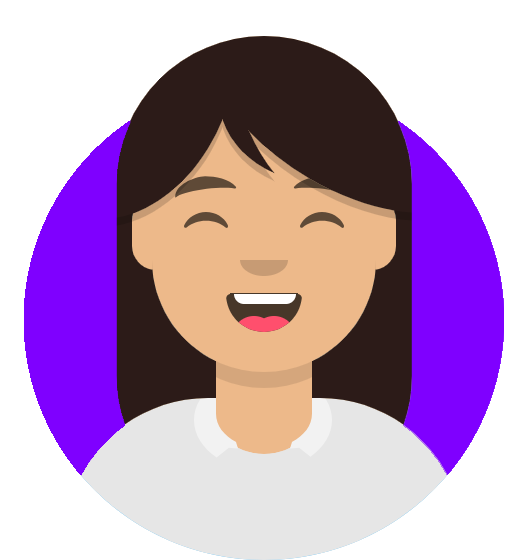
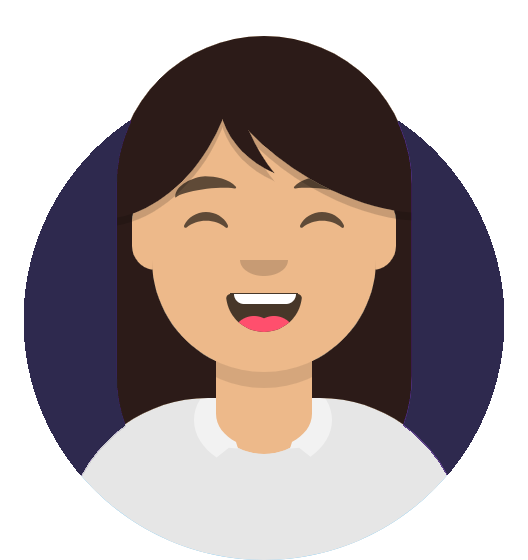
show resume button

Changed region(s): [[0.7576, 0.2125, 0.9697, 0.85], [0.0303, 0.2125, 0.2424, 0.85]]

diff --git a/index.html b/index.html
@@ -29,7 +29,7 @@
 <nav class="transparent mt-3" role="navigation">
   <div class="nav-wrapper container">
     <a id="logo-container" href="#!" class="brand-logo">
-      <img src="assets/images/joyceperez_nav_logo_lg2.png" width="180" alt="logo" class="sho">
+      <img src="assets/images/joyceperez_nav_logo_lg2.png" width="180" alt="logo">
     </a>
 
     <ul class="right hide-on-small-only show-on-medium-and-up p-0">
@@ -46,7 +46,7 @@
           <h5 class="header col s12 lighter grey-text text-darken-3">I code clean, responsive and thoughtful websites.</h5>
         </div>
         <div class="row center">
-          <img src="assets/images/avatar.png" alt="avatar" id="avatar">
+          <img src="assets/images/avatar2.png" alt="avatar" id="avatar">
         </div>
         <br><br>
       </div>
@@ -63,11 +63,11 @@
       <!--</div>-->
     <!--</div>-->
   <!--</div>-->
-  <div class="container show-on-small hide-on-med-and-up">
+  <div class="container">
     <div class="row">
       <div class="col s12">
           <ul class="center p-0">
-            <a id="btn-resume" class="waves-effect waves-light btn-floating btn-large modal-trigger orange darken-1" href="#resume2"><i class="large material-icons right">attachment</i></a>
+            <a id="btn-resume" class="waves-effect waves-light btn-floating btn-large modal-trigger orange darken-2" href="#resume2"><i class="large material-icons right">attachment</i></a>
           </ul>
       </div>
     </div>
